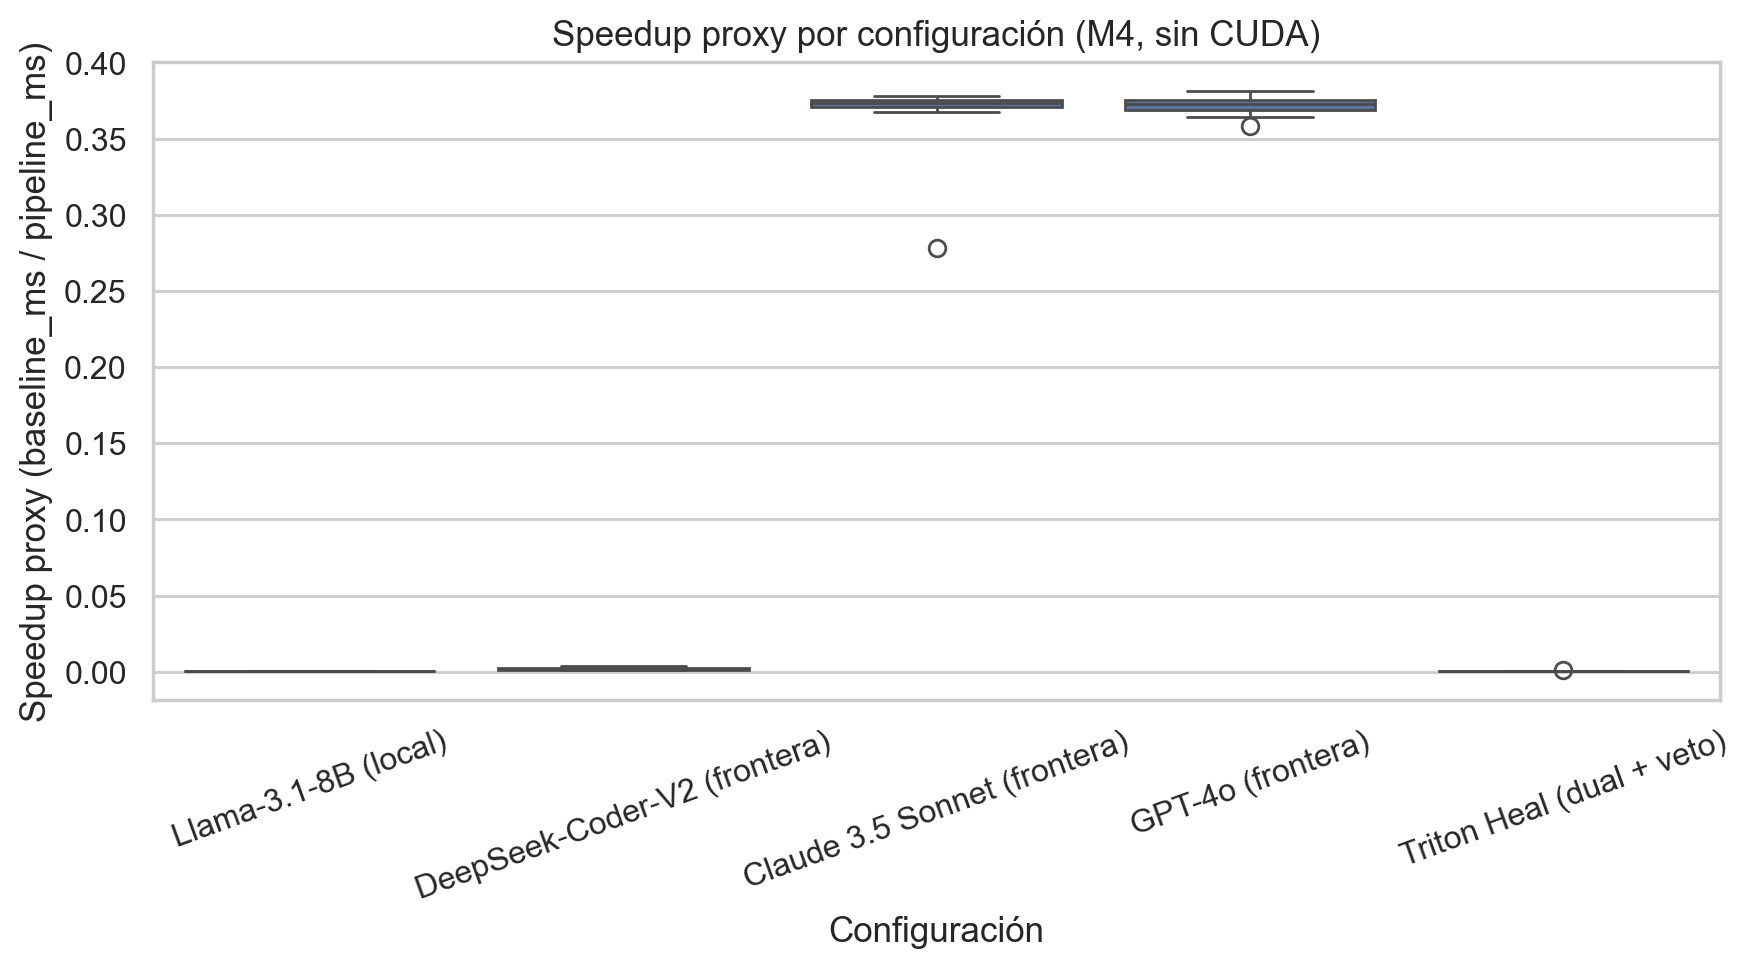
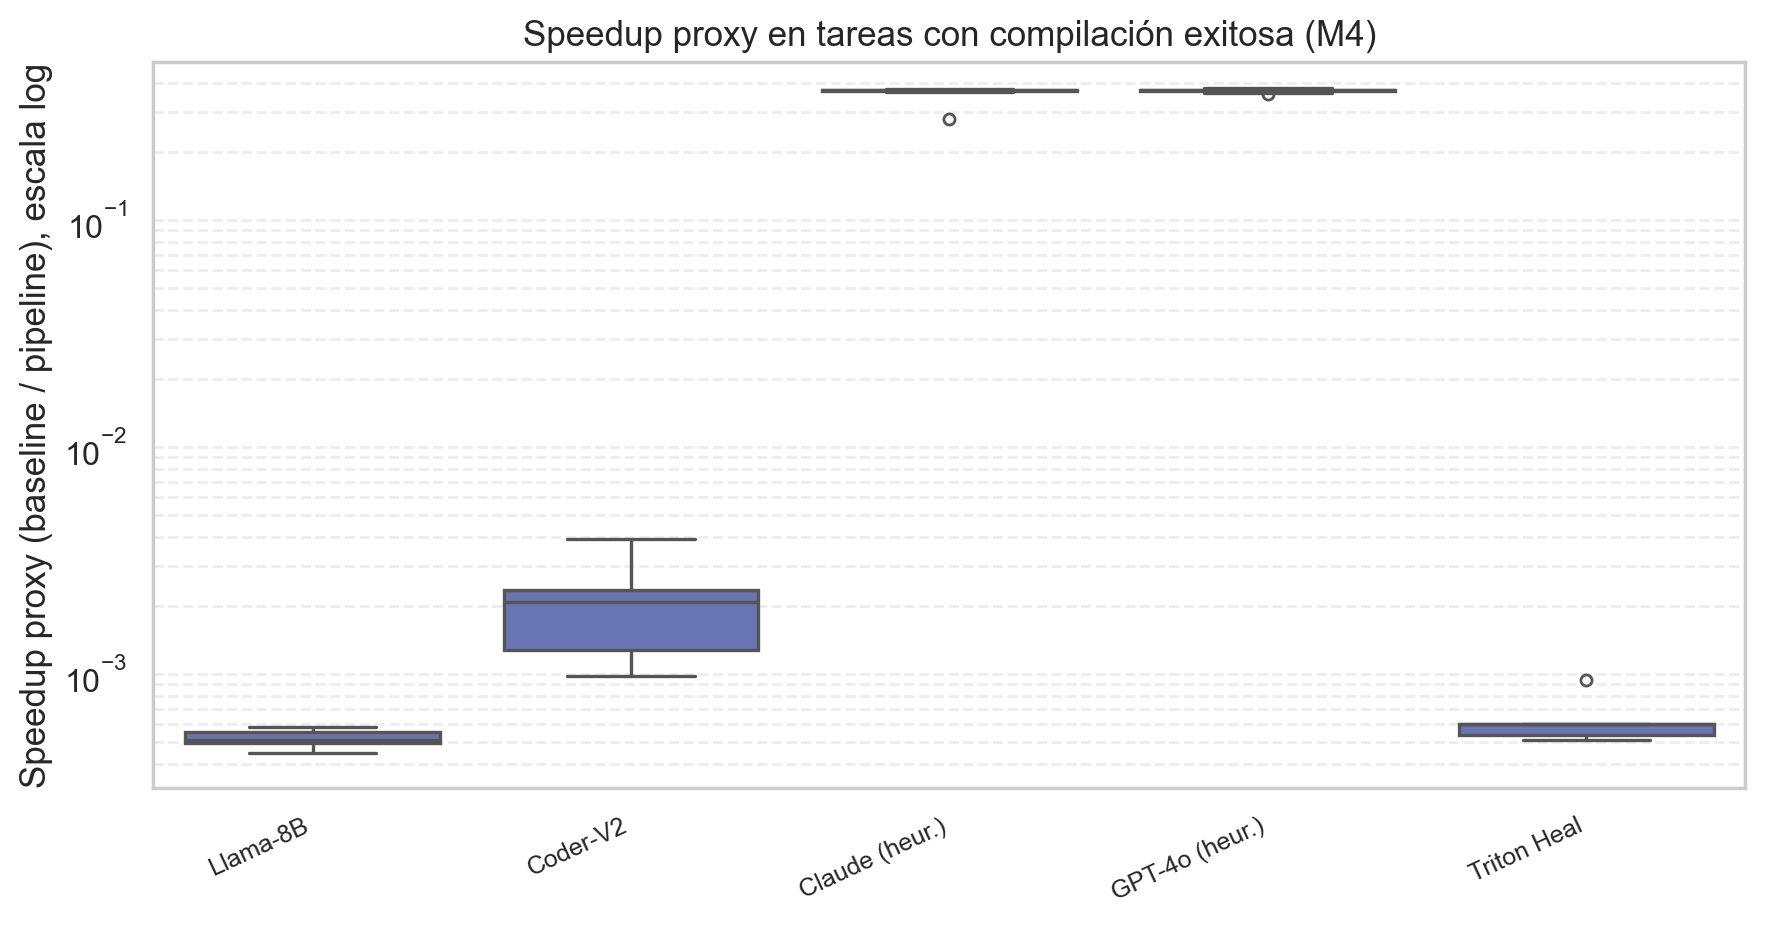
Corrige gráfico speedup proxy con escala log y etiquetas cortas.
Separa visualmente Ollama (ms⁻³) de baselines heurísticos (~0.3) en el mismo gráfico.

diff --git a/triton_heal_experiment/src/plot_generation.py b/triton_heal_experiment/src/plot_generation.py
@@ -48,17 +48,47 @@ def fig_compile_rate(df: pd.DataFrame):
     _save(fig, "fig_compile_rate")
 
 
+def _short_label(config: str) -> str:
+    short = {
+        "solo_llama": "Llama-8B",
+        "solo_deepseek": "R1-14B",
+        "solo_deepseek_coder": "Coder-V2",
+        "solo_claude": "Claude (heur.)",
+        "solo_gpt4o": "GPT-4o (heur.)",
+        "triton_heal_dual": "Triton Heal",
+    }
+    return short.get(config, CONFIG_LABELS.get(config, config))
+
+
 def fig_speedup_box(df: pd.DataFrame):
     sub = df[df["compile_ok"].astype(bool) & df["speedup_proxy"].notna()].copy()
-    sub["label"] = sub["config"].map(CONFIG_LABELS)
     if sub.empty:
         return
-    fig, ax = plt.subplots(figsize=(9, 5))
-    sns.boxplot(data=sub, x="label", y="speedup_proxy", ax=ax)
-    ax.set_ylabel("Speedup proxy (baseline_ms / pipeline_ms)")
-    ax.set_xlabel("Configuración")
-    ax.set_title("Speedup proxy por configuración (M4, sin CUDA)")
-    ax.tick_params(axis="x", rotation=20)
+    sub = sub[sub["speedup_proxy"] > 0]
+    sub["label"] = sub["config"].map(_short_label)
+    order = [_short_label(c) for c in CONFIGS if c in sub["config"].values]
+
+    fig, ax = plt.subplots(figsize=(9, 4.8))
+    sns.boxplot(
+        data=sub,
+        x="label",
+        y="speedup_proxy",
+        order=order,
+        ax=ax,
+        color="#5c6bc0",
+        linewidth=1.2,
+        fliersize=4,
+    )
+    ax.set_yscale("log")
+    ax.set_ylim(sub["speedup_proxy"].min() * 0.7, sub["speedup_proxy"].max() * 1.3)
+    ax.set_ylabel("Speedup proxy (baseline / pipeline), escala log")
+    ax.set_xlabel("")
+    ax.set_title("Speedup proxy en tareas con compilación exitosa (M4)")
+    ax.tick_params(axis="x", rotation=25, labelsize=9)
+    for t in ax.get_xticklabels():
+        t.set_ha("right")
+    ax.yaxis.grid(True, which="both", linestyle="--", alpha=0.35)
+    ax.set_axisbelow(True)
     fig.tight_layout()
     _save(fig, "fig_speedup_proxy")
 